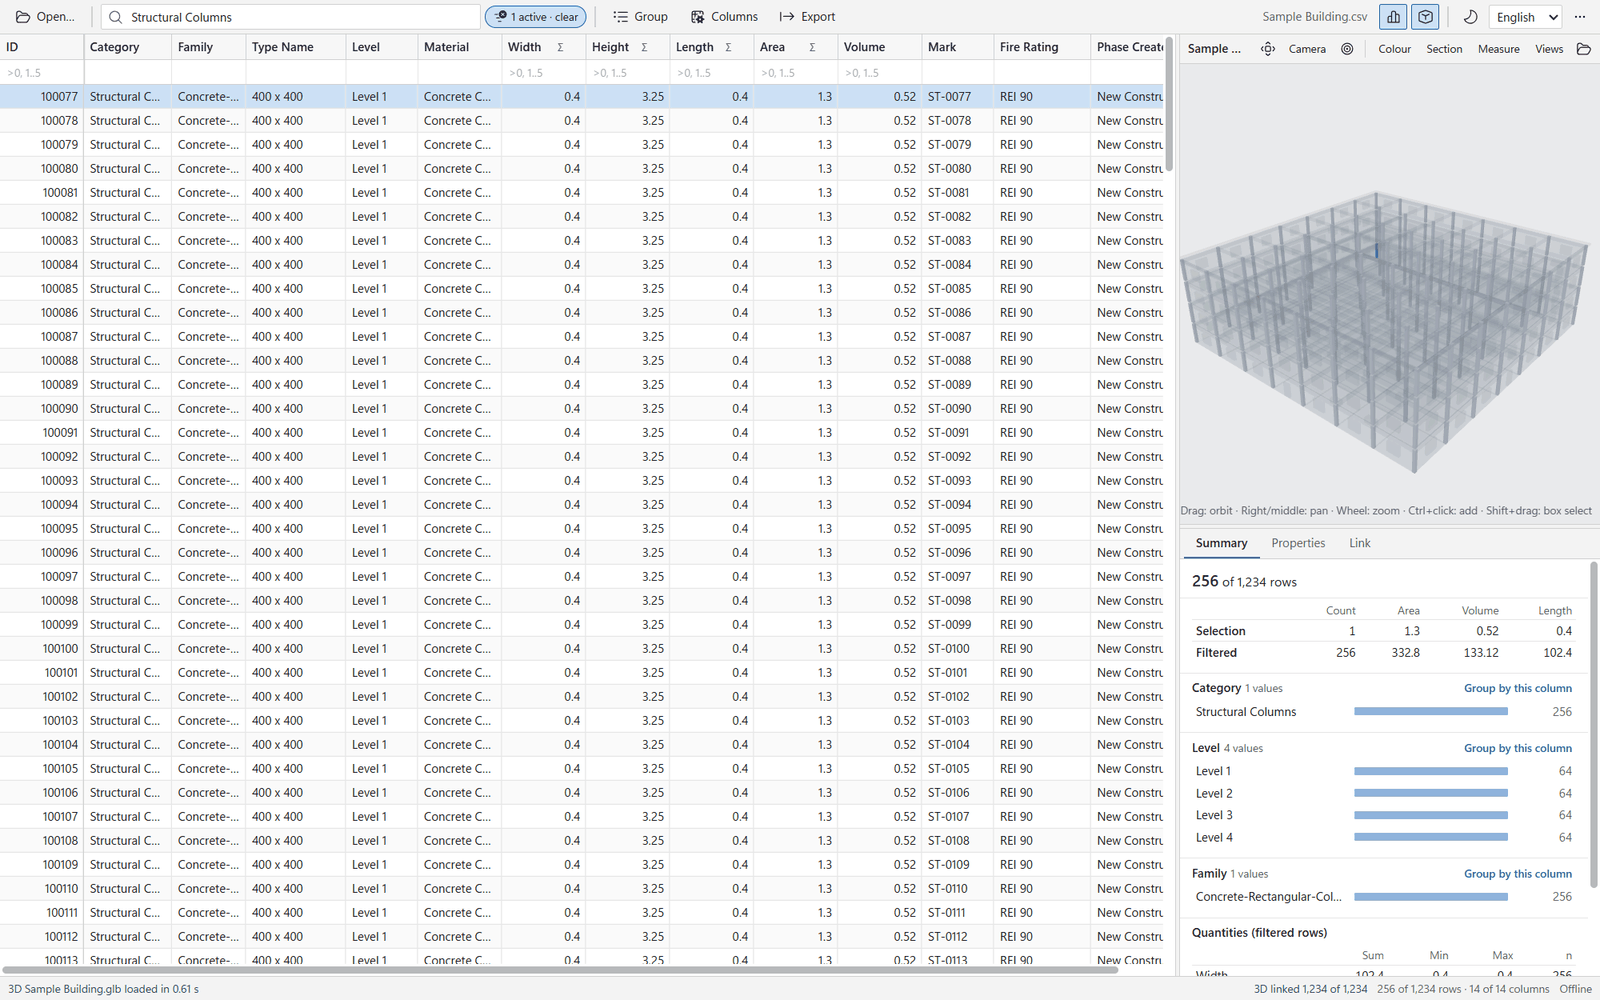
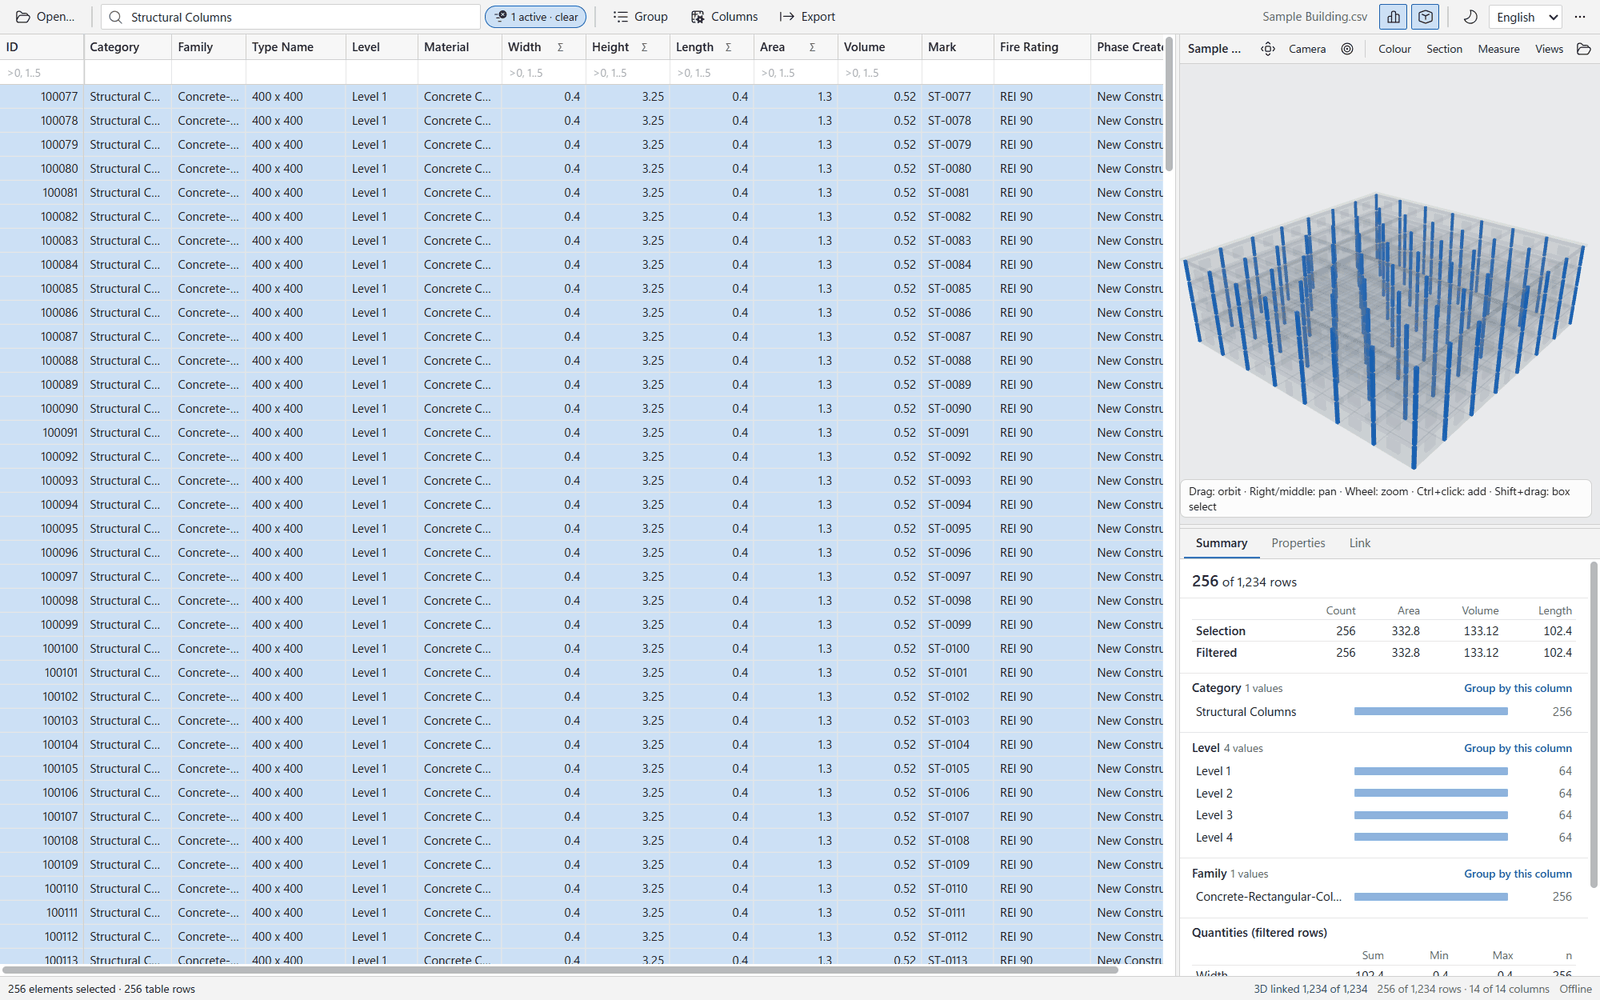
Data Viewer 0.1.2: version, checksums and a new 3D selection screenshot

diff --git a/README.md b/README.md
@@ -73,7 +73,7 @@ What this means for you:
 | **DDC RVT to IFC** | 0.6.8 | `.rvt`, `.rfa` | IFC4 with property sets, quantities, classification, materials; profiles `full`, `coordination`, `geometry` | Desktop app (same CLI engine) |
 | **DDC IFC to Excel** | 0.3.1 preview | IFC2x3 / IFC4 STEP files, `.ifczip` | `drawing.xlsx` (objects, properties, quantities), `data.jsonl`, `data.sqlite`, `result.json` | Desktop app + Python CLI (bundled runtime) |
 | **DDC DWG to Excel** | 0.4.1 | `.dwg` drawings, R13–2018 format versions | `.xlsx` (Entities, Summary, Layers, Blocks), `.csv`, `.jsonl`, `.dxf`, `.svg`, `report.json` | Desktop app + `dwg2excel.exe` CLI |
-| **DDC Data Viewer** | 0.1.1 | `.xlsx`, `.csv`, `.jsonl`, `.parquet` tables + `.glb` / `.dae` geometry | filtered views to XLSX / CSV | Desktop app (free) |
+| **DDC Data Viewer** | 0.1.2 | `.xlsx`, `.csv`, `.jsonl`, `.parquet` tables + `.glb` / `.dae` geometry | filtered views to XLSX / CSV | Desktop app (free) |
 
 Every geometry node written by the RVT Converter keeps the native element id, so tables and 3D can be
 joined by `ElementId`. All packages run fully offline on Windows 10/11 x64 and need no Autodesk
@@ -204,7 +204,7 @@ status, output folder and decode statistics.
 A free desktop viewer for the converter output: virtualised grid for 100k+ rows, search, filters,
 grouping with sums, column chooser, export of the current view to XLSX/CSV and a 3D panel that links
 rows and elements both ways (GLB or DAE). English, German and Russian; light and dark theme.
-Download `DDC-Data-Viewer-0.1.1-Setup.exe` or the portable zip from the release.
+Download `DDC-Data-Viewer-0.1.2-Setup.exe` or the portable zip from the release.
 
 ## n8n workflows, notebooks and AI agents
 

diff --git a/docs/releases/2026.10.md b/docs/releases/2026.10.md
@@ -12,7 +12,7 @@ All packages are **previews**: each run writes a report of what was read, skippe
 | DDC RVT to IFC | 0.6.8 | `.rvt`, `.rfa` | IFC4 with profiles `full`, `coordination`, `geometry` |
 | DDC IFC to Excel | 0.3.1 preview | IFC2x3 / IFC4, `.ifczip` | XLSX, JSONL, SQLite |
 | DDC DWG to Excel | 0.4.1 | `.dwg` R13–2018 | XLSX, CSV, JSONL, DXF, SVG |
-| DDC Data Viewer | 0.1.1 | XLSX, CSV, JSONL, Parquet + GLB / DAE | XLSX, CSV |
+| DDC Data Viewer | 0.1.2 | XLSX, CSV, JSONL, Parquet + GLB / DAE | XLSX, CSV |
 
 `*-Setup.exe` is a Windows installer; `*-portable.zip` runs from any folder without installation.
 The packages are not code-signed yet.
@@ -54,8 +54,8 @@ Verify downloads with `SHA256SUMS.txt` attached to this release
[7 lines of base64/hex data omitted]
 
 ## Licence
 

diff --git a/README.de.md b/README.de.md
@@ -26,7 +26,7 @@ Die Konverter wurden auf **eigene Dateileser von DataDrivenConstruction** umgest
 | **DDC RVT to IFC** | 0.6.8 | `.rvt`, `.rfa` | IFC4 |
 | **DDC IFC to Excel** | 0.3.1 preview | IFC2x3 / IFC4, `.ifczip` | XLSX, JSONL, SQLite |
 | **DDC DWG to Excel** | 0.4.1 | `.dwg` (R13–2018) | XLSX, CSV, JSONL, DXF, SVG |
-| **DDC Data Viewer** | 0.1.1 | XLSX, CSV, JSONL, Parquet + GLB / DAE | XLSX, CSV |
+| **DDC Data Viewer** | 0.1.2 | XLSX, CSV, JSONL, Parquet + GLB / DAE | XLSX, CSV |
 
 Alle Pakete laufen offline unter Windows 10/11 x64 und benötigen weder Autodesk-Software noch Excel oder Python. Jedes Geometrie-Element des RVT Converters trägt die native Element-ID, sodass Tabellen und 3D verknüpft werden können.
 

diff --git a/README.ru.md b/README.ru.md
@@ -26,7 +26,7 @@
 | **DDC RVT to IFC** | 0.6.8 | `.rvt`, `.rfa` | IFC4 |
 | **DDC IFC to Excel** | 0.3.1 preview | IFC2x3 / IFC4, `.ifczip` | XLSX, JSONL, SQLite |
 | **DDC DWG to Excel** | 0.4.1 | `.dwg` (R13–2018) | XLSX, CSV, JSONL, DXF, SVG |
-| **DDC Data Viewer** | 0.1.1 | XLSX, CSV, JSONL, Parquet + GLB / DAE | XLSX, CSV |
+| **DDC Data Viewer** | 0.1.2 | XLSX, CSV, JSONL, Parquet + GLB / DAE | XLSX, CSV |
 
 Все пакеты работают офлайн в Windows 10/11 x64 и не требуют ПО Autodesk, Excel или Python. Каждый геометрический узел RVT Converter хранит исходный ElementId, поэтому таблицы и 3D связываются напрямую.
 

diff --git a/README.es.md b/README.es.md
@@ -26,7 +26,7 @@ Los convertidores se basan ahora en **lectores de formato propios de DataDrivenC
 | **DDC RVT to IFC** | 0.6.8 | `.rvt`, `.rfa` | IFC4 |
 | **DDC IFC to Excel** | 0.3.1 preview | IFC2x3 / IFC4, `.ifczip` | XLSX, JSONL, SQLite |
 | **DDC DWG to Excel** | 0.4.1 | `.dwg` (R13–2018) | XLSX, CSV, JSONL, DXF, SVG |
-| **DDC Data Viewer** | 0.1.1 | XLSX, CSV, JSONL, Parquet + GLB / DAE | XLSX, CSV |
+| **DDC Data Viewer** | 0.1.2 | XLSX, CSV, JSONL, Parquet + GLB / DAE | XLSX, CSV |
 
 Todos los paquetes funcionan sin conexión en Windows 10/11 x64 y no requieren software de Autodesk, Excel ni Python.
 

diff --git a/README.fr.md b/README.fr.md
@@ -26,7 +26,7 @@ Les convertisseurs reposent désormais sur des **lecteurs de formats propres à 
 | **DDC RVT to IFC** | 0.6.8 | `.rvt`, `.rfa` | IFC4 |
 | **DDC IFC to Excel** | 0.3.1 preview | IFC2x3 / IFC4, `.ifczip` | XLSX, JSONL, SQLite |
 | **DDC DWG to Excel** | 0.4.1 | `.dwg` (R13–2018) | XLSX, CSV, JSONL, DXF, SVG |
-| **DDC Data Viewer** | 0.1.1 | XLSX, CSV, JSONL, Parquet + GLB / DAE | XLSX, CSV |
+| **DDC Data Viewer** | 0.1.2 | XLSX, CSV, JSONL, Parquet + GLB / DAE | XLSX, CSV |
 
 Tous les paquets fonctionnent hors ligne sous Windows 10/11 x64, sans logiciel Autodesk, Excel ni Python.
 

diff --git a/README.ar.md b/README.ar.md
@@ -28,7 +28,7 @@
 | **DDC RVT to IFC** | 0.6.8 | `.rvt`, `.rfa` | IFC4 |
 | **DDC IFC to Excel** | 0.3.1 preview | IFC2x3 / IFC4, `.ifczip` | XLSX, JSONL, SQLite |
 | **DDC DWG to Excel** | 0.4.1 | `.dwg` (R13–2018) | XLSX, CSV, JSONL, DXF, SVG |
-| **DDC Data Viewer** | 0.1.1 | XLSX, CSV, JSONL, Parquet + GLB / DAE | XLSX, CSV |
+| **DDC Data Viewer** | 0.1.2 | XLSX, CSV, JSONL, Parquet + GLB / DAE | XLSX, CSV |
 
 تعمل جميع الحزم دون اتصال على Windows 10/11 x64 ولا تحتاج إلى برامج Autodesk أو Excel أو Python.
 

diff --git a/README.zh.md b/README.zh.md
@@ -26,7 +26,7 @@
 | **DDC RVT to IFC** | 0.6.8 | `.rvt`, `.rfa` | IFC4 |
 | **DDC IFC to Excel** | 0.3.1 preview | IFC2x3 / IFC4, `.ifczip` | XLSX, JSONL, SQLite |
 | **DDC DWG to Excel** | 0.4.1 | `.dwg` (R13–2018) | XLSX, CSV, JSONL, DXF, SVG |
-| **DDC Data Viewer** | 0.1.1 | XLSX, CSV, JSONL, Parquet + GLB / DAE | XLSX, CSV |
+| **DDC Data Viewer** | 0.1.2 | XLSX, CSV, JSONL, Parquet + GLB / DAE | XLSX, CSV |
 
 所有软件包均可在 Windows 10/11 x64 上离线运行，无需 Autodesk 软件、Excel 或 Python。
 
